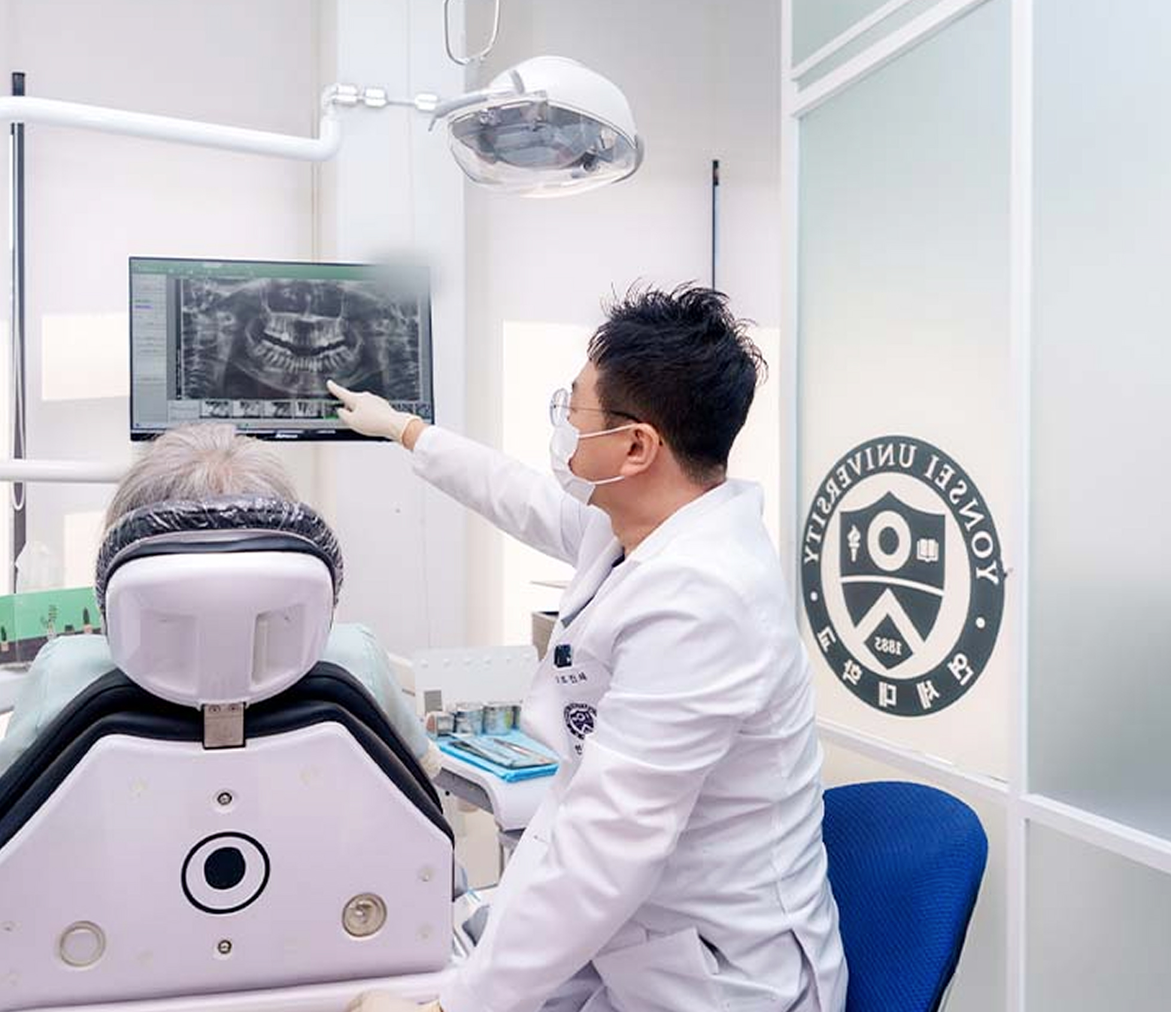
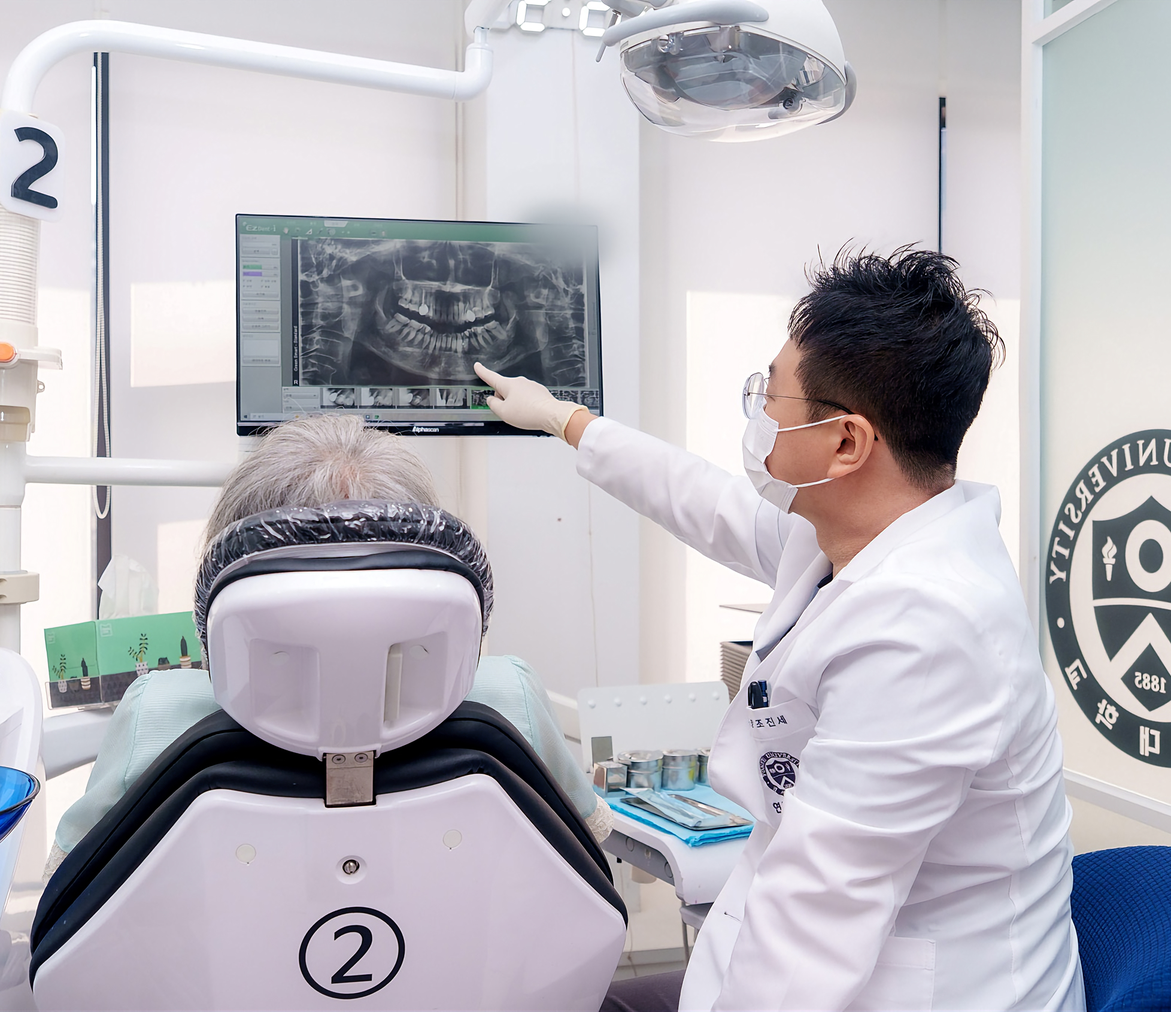
chore: 진료철학 이미지 교체

diff --git a/data/site.ts b/data/site.ts
@@ -375,7 +375,7 @@ export const CORE_TABS: CoreTab[] = [
         expertise: {
             title: [{ text: '연세진치과', strong: true }, { text: '의 교정 전문성' }],
             body: '연세진치과 원장은 (사)한국치과교정연구회 교수부원 및\n강원지부 인스트럭터로 활동하며, 서울 TWEED 코스에서\n국내외 치과의사들의 실습을 지도하고 있습니다.\n\n교육생으로 시작해 오랜 학술 활동과 임상 경험을 쌓아왔으며,\n구강의 기능과 심미를 함께 고려한 정밀한 교정 치료를 통해\n환자에게 적합한 치료 계획을 세웁니다.',
-            image: '/images/img-doc.png',
+            image: '/images/img-doc.jpg',
             alt: '연세진치과 조진세 대표원장 교정 진료 소개',
         },
         slides: [
